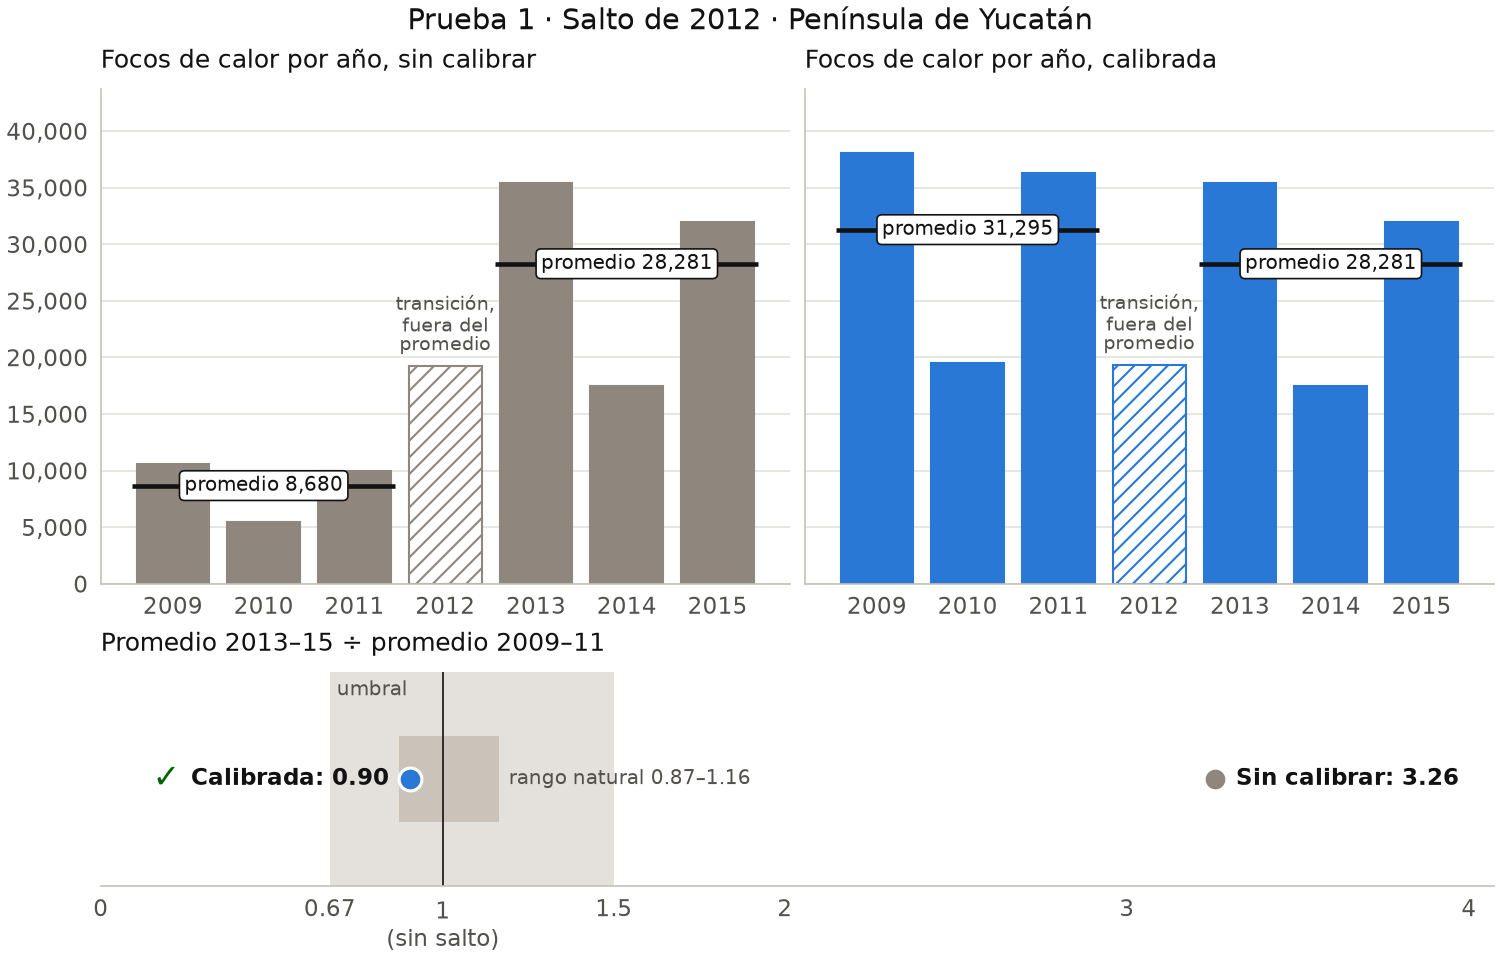
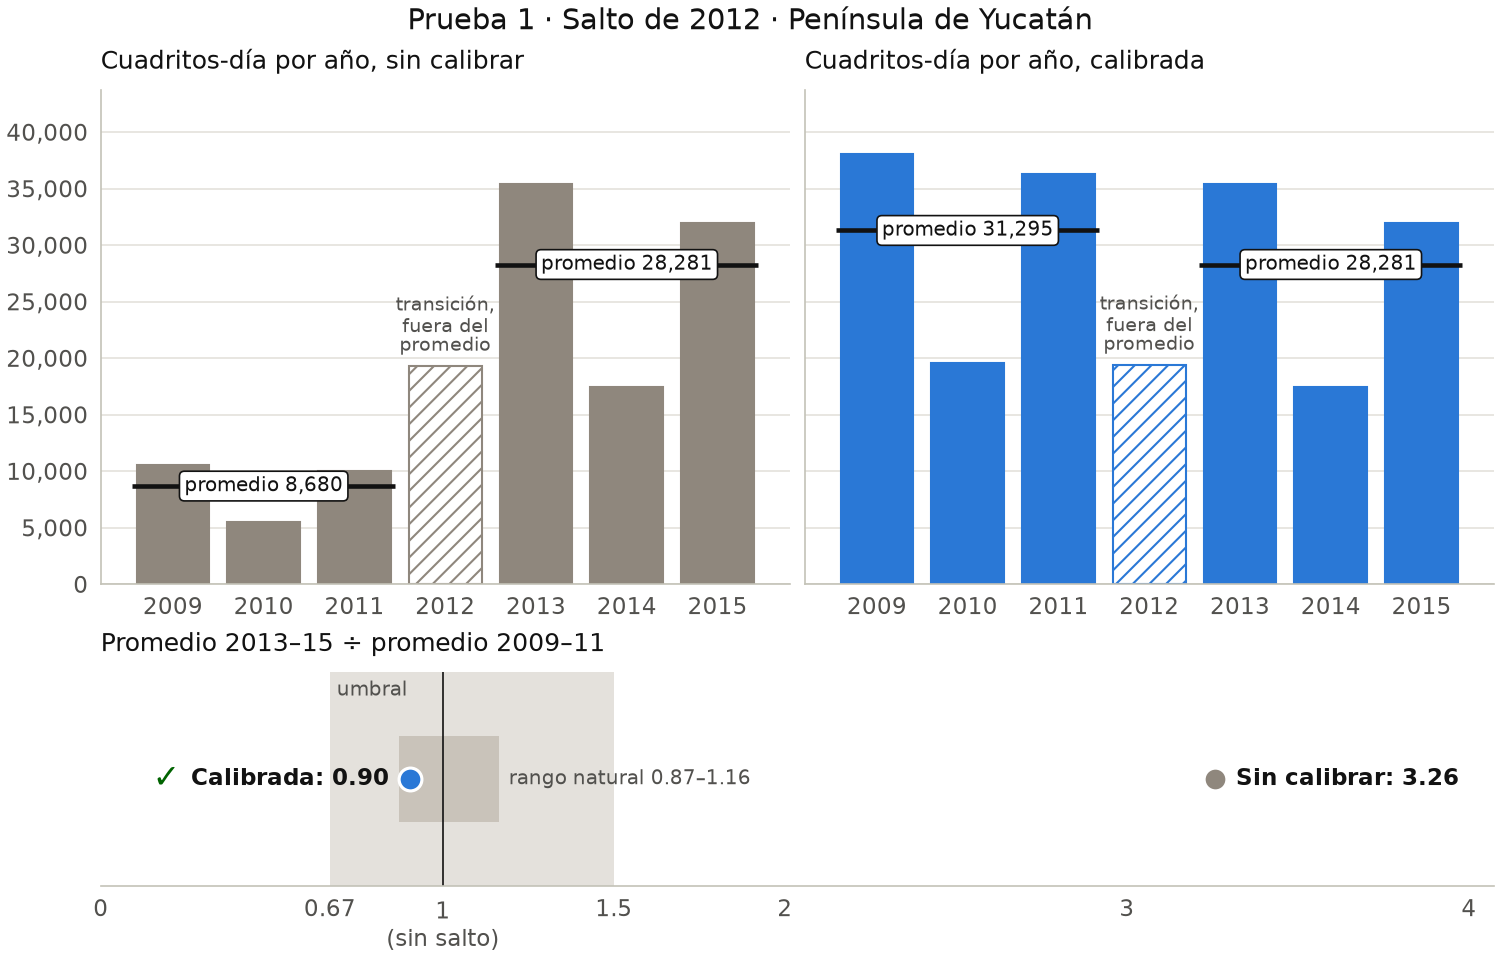
Validación: cambios de la revisión del PR #18
- Los criterios citan el commit 4972835 (PR #3) en validacion.json y en los comentarios,
  en vez de docs/02, que no tiene los umbrales.
- Las gráficas de las pruebas 1 y 2 dicen «Cuadritos-día por año» / «Grid cell-days per
  year»: cuentan cuadritos-día, no focos.
- matplotlib==3.11.2 fija, para que las PNG y sus huellas salgan iguales byte por byte.
- Se regeneraron validacion.json y las PNG de las pruebas 1 y 2 (mismos números).

diff --git a/pipeline/validar.py b/pipeline/validar.py
@@ -1,8 +1,8 @@
-"""Las cuatro pruebas de que la armonización funciona (tarea 7, docs/02).
+"""Las cuatro pruebas de que la armonización funciona (tarea 7; criterios del commit 4972835, PR #3).
 
 Uso: python pipeline/validar.py
 
-Pruebas (criterios congelados antes de ver datos reales, en docs/02, tarea 7):
+Pruebas (criterios congelados antes de ver datos reales, en el commit 4972835, PR #3):
 1. salto_2012: el salto de sensor de 2012 disminuye (2009–2011 contra 2013–2015, península).
 2. aqua_fuera_muestra: los factores funcionan en años que no se usaron (Aqua 2021–2025),
    y si el modelo por zona y época le gana a un solo factor.
@@ -72,7 +72,7 @@ SEMANAS = 52
 # La Prueba 1 se decide en toda la península; Yucatán es solo un desglose.
 ESTADOS = ("Yucatán", "Campeche", "Quintana Roo")
 ESTADO_DESGLOSE = "Yucatán"
-# Criterio congelado antes de ver datos reales (docs/02, tarea 7). Límites inclusivos.
+# Criterio congelado antes de ver datos reales (commit 4972835, PR #3). Límites inclusivos.
 UMBRAL_SALTO = {"reduccion_minima": 0.50, "razon_min": 0.67, "razon_max": 1.50}
 
 CLAVE_CALENDARIO = ["estado", "municipio", "anio", "semana"]
@@ -344,7 +344,7 @@ def prueba_salto(cal: pd.DataFrame) -> dict:
 # Los huecos se calculan siempre con el mismo periodo que se cuenta.
 
 PERIODO_AQUA = (date(2021, 1, 1), date(2025, 12, 31))
-# Criterio congelado (docs/02, tarea 7). Límites inclusivos.
+# Criterio congelado (commit 4972835, PR #3). Límites inclusivos.
 UMBRAL_AQUA = {"wape_max": 0.25, "mejora_minima": 0.05}
 # Margen para comparar contra los límites sin que el redondeo de la computadora decida.
 _TOL = 1e-12
@@ -392,7 +392,7 @@ def celdas_aqua(por_zona: pd.DataFrame, peninsula: pd.DataFrame,
 
 
 def decidir_modelo(wape_zona: float, wape_unico: float) -> dict:
-    """Regla completa congelada (docs/02, tarea 7).
+    """Regla completa congelada (commit 4972835, PR #3).
 
     1. Si solo uno de los dos modelos cumple WAPE ≤ 25 %, gana ese. Si cumplen los dos o
        ninguno, gana zona×época si mejora ≥ 5 % relativo al único; si no, el único.
@@ -505,7 +505,7 @@ def prueba_aqua(por_zona: pd.DataFrame, peninsula: pd.DataFrame, factores: pd.Da
 CRUCE_CONAFOR = RAIZ / "analisis" / "cruce_conafor.py"
 SENSORES_CONAFOR = ("S-NPP", "MODIS")
 TAMANO_GRANDES = "Mayor a 100 Hectáreas"
-# Criterio congelado (docs/02, tarea 7): regresión, no decide nada del método.
+# Criterio congelado (commit 4972835, PR #3): regresión, no decide nada del método.
 UMBRAL_CONAFOR = {"veces_azar_min": 3.0, "grandes_min": 75.0}
 # Lo publicado en docs/01 («Validación con CONAFOR»), con la precisión con que se publicó
 # (porcentajes enteros). El «por azar» de MODIS se publicó como rango (4–5 %).
@@ -658,7 +658,7 @@ PERIODOS_VIIRS = {
     "NOAA-21": (date(2023, 3, 1), armonizar.PERIODO_NOAA20[1]),   # docs/01: empieza el 1 mar 2023
 }
 VIIRS_DECIDE = "NOAA-20"
-# Criterio congelado (docs/02, tarea 7). Límites inclusivos.
+# Criterio congelado (commit 4972835, PR #3). Límites inclusivos.
 UMBRAL_VIIRS = {"razon_min": 0.90, "razon_max": 1.10, "diferencia_max": 0.05}
 
 
@@ -1045,13 +1045,13 @@ ETIQUETAS = {
     "es": {
         "titulo_salto": "Prueba 1 · Salto de 2012 · Península de Yucatán",
         "sin_calibrar": "Sin calibrar", "calibrada": "Calibrada",
-        "focos_sin_calibrar": "Focos de calor por año, sin calibrar",
-        "focos_calibrada": "Focos de calor por año, calibrada",
+        "focos_sin_calibrar": "Cuadritos-día por año, sin calibrar",
+        "focos_calibrada": "Cuadritos-día por año, calibrada",
         "transicion": "transición,\nfuera del\npromedio", "promedio": "promedio",
         "razon_salto": "Promedio 2013–15 ÷ promedio 2009–11",
         "sin_salto": "(sin salto)", "umbral": "umbral", "rango_natural": "rango natural",
         "titulo_aqua": "Prueba 2 · Aqua en años fuera de la calibración",
-        "focos_anio": "Focos de calor por año",
+        "focos_anio": "Cuadritos-día por año",
         "snpp": "S-NPP (observado)", "aqua_zona": "Aqua × factor por zona y época",
         "aqua_unico": "Aqua × factor único", "error": "Error de Aqua contra S-NPP (%)",
         "limite": "límite", "zona_epoca": "Por zona\ny época", "unico": "Único",
@@ -1072,13 +1072,13 @@ ETIQUETAS = {
     "en": {
         "titulo_salto": "Test 1 · 2012 jump · Yucatán Peninsula",
         "sin_calibrar": "Uncalibrated", "calibrada": "Calibrated",
-        "focos_sin_calibrar": "Hot spots per year, uncalibrated",
-        "focos_calibrada": "Hot spots per year, calibrated",
+        "focos_sin_calibrar": "Grid cell-days per year, uncalibrated",
+        "focos_calibrada": "Grid cell-days per year, calibrated",
         "transicion": "transition,\nnot in the\naverage", "promedio": "average",
         "razon_salto": "Average 2013–15 ÷ average 2009–11",
         "sin_salto": "(no jump)", "umbral": "threshold", "rango_natural": "natural range",
         "titulo_aqua": "Test 2 · Aqua in years outside the calibration",
-        "focos_anio": "Hot spots per year",
+        "focos_anio": "Grid cell-days per year",
         "snpp": "S-NPP (observed)", "aqua_zona": "Aqua × zone and season factor",
         "aqua_unico": "Aqua × single factor", "error": "Aqua error against S-NPP (%)",
         "limite": "limit", "zona_epoca": "Zone and\nseason", "unico": "Single",
@@ -1504,7 +1504,7 @@ ARCHIVO_VALIDACION = "validacion.json"
 CARPETA_GRAFICAS = "graficas"
 SCHEMA_VERSION = 1
 ORDEN = ("salto_2012", "aqua_fuera_muestra", "conafor", "viirs")
-CRITERIOS = {"congelados": "docs/02, tarea 7", "regla_prueba_2": "docs/02, tarea 7"}
+CRITERIOS = {"congelados": "commit 4972835 (PR #3)", "regla_prueba_2": "commit 4972835 (PR #3)"}
 _RUTA_ABSOLUTA = re.compile(r"^(/|[A-Za-z]:[\\/]|~)")
 _FECHA_HORA = re.compile(r"\d{4}-\d{2}-\d{2}[T ]\d{2}:\d{2}")
 

diff --git a/tests/test_validar.py b/tests/test_validar.py
@@ -1273,7 +1273,7 @@ def test_cada_idioma_tiene_sus_etiquetas():
     assert set(validar.ETIQUETAS["es"]) == set(validar.ETIQUETAS["en"])
     es = " ".join(validar.textos_figura(validar.figura(g_salto(), "es")))
     en = " ".join(validar.textos_figura(validar.figura(g_salto(), "en")))
-    assert "Focos de calor" in es and "Hot spots" in en and "Focos" not in en
+    assert "Cuadritos-día" in es and "Grid cell-days" in en and "Cuadritos" not in en
 
 
 def test_guardar_graficas_escribe_las_dos_versiones_con_ruta_fija(tmp_path):
@@ -1318,7 +1318,7 @@ def test_el_json_tiene_las_cuatro_pruebas_en_orden_fijo():
     r = resultados_completos()
     doc = validar.armar_validacion(list(reversed(r)), SIN_TEXTOS, validar.dibujar_todas(r))
     assert doc["schema_version"] == 1
-    assert doc["criterios"] == {"congelados": "docs/02, tarea 7", "regla_prueba_2": "docs/02, tarea 7"}
+    assert doc["criterios"] == {"congelados": "commit 4972835 (PR #3)", "regla_prueba_2": "commit 4972835 (PR #3)"}
     assert [p["id"] for p in doc["pruebas"]] == ["salto_2012", "aqua_fuera_muestra", "conafor", "viirs"]
 
 
